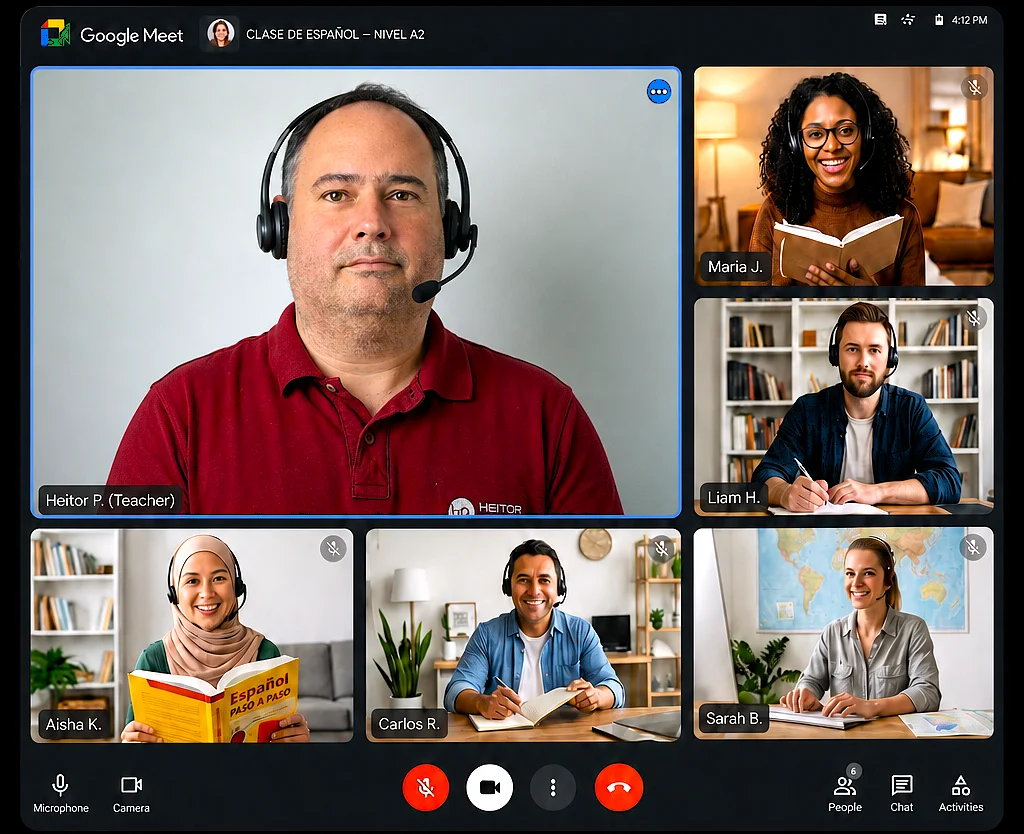
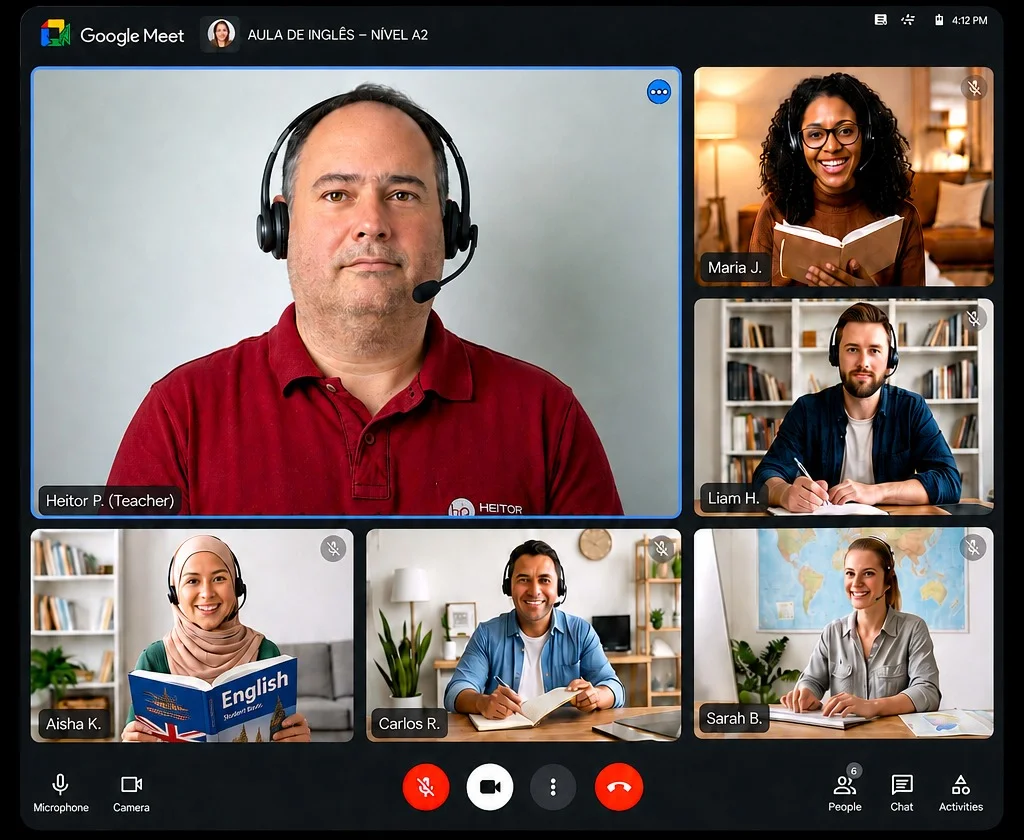
updates

diff --git a/src/components/Hero.tsx b/src/components/Hero.tsx
@@ -25,15 +25,15 @@ export function Hero() {
           <div className="overflow-hidden shadow-[0_40px_60px_-20px_rgb(0_0_0/0.45)]">
             <Image
               src="/images/hero-aula-online.webp"
-              alt="Aula de idiomas ao vivo pelo Google Meet com o professor Heitor Pereira e alunos"
+              alt="Aula de inglês ao vivo pelo Google Meet com o professor Heitor Pereira e alunos"
               width={1024}
-              height={834}
+              height={840}
               preload
               sizes="(min-width: 1024px) 740px, 100vw"
               className="h-auto w-full"
             />
           </div>
-          <span className="absolute -left-3 top-[16%] inline-flex items-center gap-2.5 rounded-full bg-white px-4 py-2.5 text-sm font-medium text-ink shadow-[0_8px_24px_rgb(0_0_0/0.18)] sm:-left-12 sm:px-5 sm:text-lg">
+          <span className="absolute -left-3 top-[52%] inline-flex items-center gap-2.5 rounded-full bg-white px-4 py-2.5 text-sm font-medium text-ink shadow-[0_8px_24px_rgb(0_0_0/0.18)] sm:-left-12 sm:px-5 sm:text-lg">
             <span className="relative flex size-3">
               <span className="absolute inset-0 animate-ping rounded-full bg-online opacity-60" />
               <span className="relative size-3 rounded-full bg-online" />
@@ -55,9 +55,9 @@ const highlights = [
 export function Highlights() {
   return (
     <section aria-label="Diferenciais" className="bg-sun">
-      <ul className="mx-auto flex max-w-7xl flex-col gap-5 px-6 py-10 sm:px-8 lg:flex-row lg:items-center lg:justify-center lg:gap-10 lg:py-14 xl:gap-14">
+      <ul className="mx-auto flex max-w-7xl flex-col gap-5 px-6 py-10 sm:px-8 lg:grid lg:grid-cols-3 lg:items-center lg:gap-10 lg:py-14 xl:gap-14">
         {highlights.map(({ Icon, text }) => (
-          <li key={text} className="flex items-center gap-3 text-base font-bold text-ink xl:whitespace-nowrap xl:text-[1.05rem]">
+          <li key={text} className="flex min-w-0 items-center gap-3 text-base font-bold text-ink lg:justify-center xl:text-[1.05rem]">
             <Icon className="size-7 shrink-0" />
             {text}
           </li>

diff --git a/src/components/Teachers.tsx b/src/components/Teachers.tsx
@@ -42,7 +42,7 @@ function TeacherCard({ t }: { t: Teacher }) {
           className="aspect-[9/8] w-full object-cover object-bottom"
         />
       </div>
-      <figcaption className="absolute -right-2 top-4 rounded-2xl bg-white px-4 py-3 text-base font-bold text-ink shadow-[0_8px_20px_rgb(0_0_0/0.18)] sm:-right-6 sm:text-lg">
+      <figcaption className="absolute -right-2 -top-5 rounded-xl bg-white px-3.5 py-2 text-sm font-bold text-ink shadow-[0_8px_20px_rgb(0_0_0/0.18)] sm:-right-6 sm:text-base">
         {t.name}
       </figcaption>
       {t.status && (

diff --git a/src/app/layout.tsx b/src/app/layout.tsx
@@ -41,7 +41,7 @@ export const viewport: Viewport = {
 export default function RootLayout({ children }: LayoutProps<"/">) {
   return (
     <html lang="pt-BR" className={`${montserrat.variable} antialiased`}>
-      <body className="min-h-full font-sans">{children}</body>
+      <body className="min-h-full overflow-x-clip font-sans">{children}</body>
     </html>
   );
 }

diff --git a/src/components/Method.tsx b/src/components/Method.tsx
@@ -58,7 +58,7 @@ export function Method() {
           </div>
         </div>
 
-        <div className="reveal">
+        <div className="reveal mx-auto min-w-0 max-w-xl text-center">
           <h2 className="text-balance text-3xl font-bold leading-tight text-ink sm:text-[2.75rem]">
             Fale, compreenda e conquiste novos desafios
           </h2>
